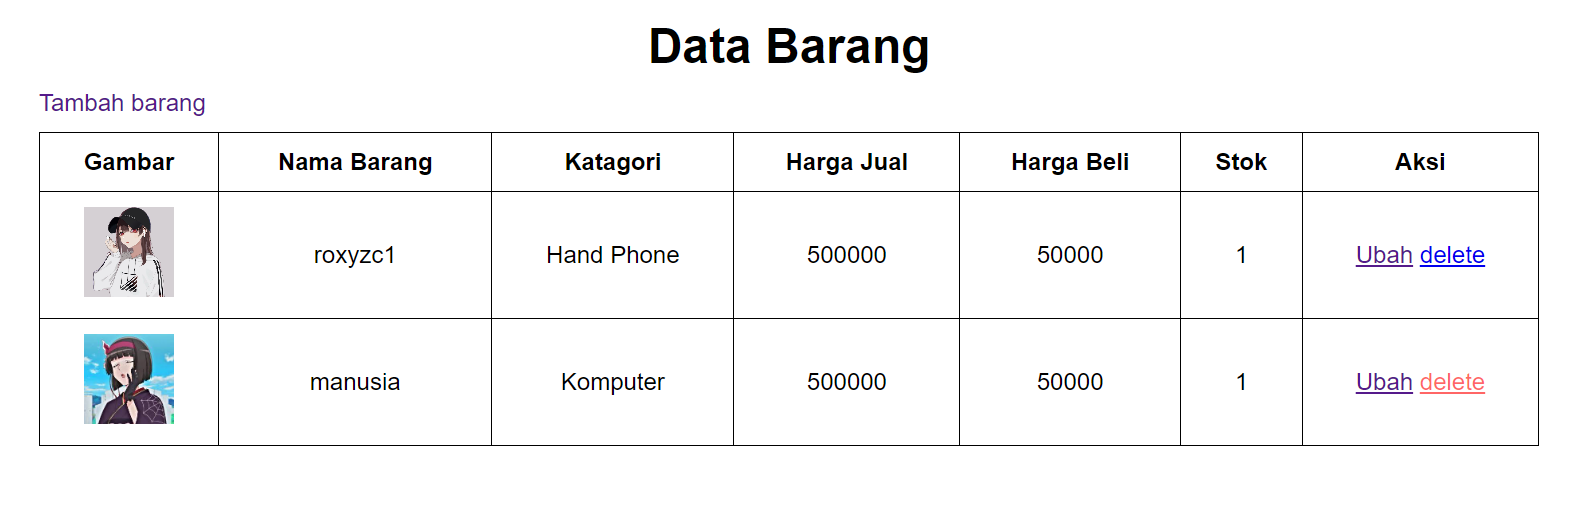
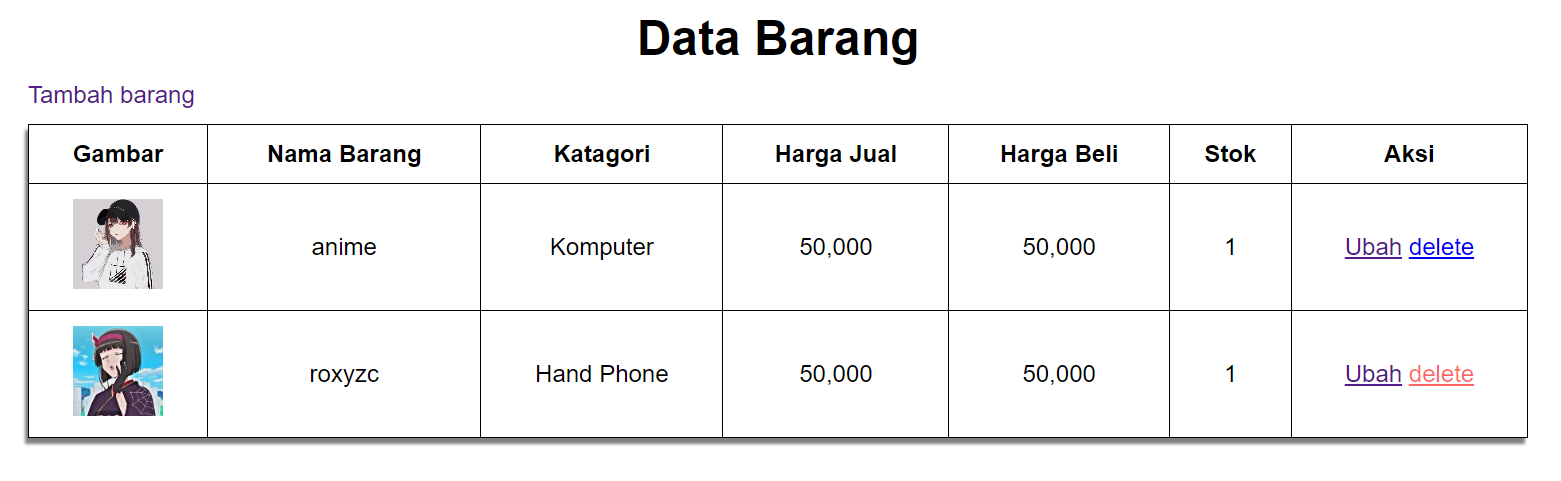
update

diff --git a/styles/style.css b/styles/style.css
@@ -27,10 +27,8 @@
 }
 
 .container .main table{
+    box-shadow: -2px 4px 2px gray;
     border-collapse: collapse;
-}
-
-.container .main table{
     text-align: center;
 }
 

diff --git a/ubah.php b/ubah.php
@@ -74,15 +74,15 @@ function is_select($var, $val)
                 </div>
                 <div class="input">
                     <label>Harga Jual</label>
-                    <input type="text" maxlength="12" name="harga_jual" value="<?php echo $data['harga_jual']; ?>" />
+                    <input type="text" maxlength="10" name="harga_jual" value="<?php echo $data['harga_jual']; ?>" />
                 </div>
                 <div class="input">
                     <label>Harga Beli</label>
-                    <input type="text" maxlength="12" name="harga_beli" value="<?php echo $data['harga_beli']; ?>" />
+                    <input type="text" maxlength="10" name="harga_beli" value="<?php echo $data['harga_beli']; ?>" />
                 </div>
                 <div class="input">
                     <label>Stok</label>
-                    <input type="text" maxlength="12" name="stok" value="<?php echo $data['stok']; ?>" />
+                    <input type="text" maxlength="10" name="stok" value="<?php echo $data['stok']; ?>" />
                 </div>
                 <div class="input">
                     <label>File Gambar</label>

diff --git a/tambah.php b/tambah.php
@@ -51,15 +51,15 @@ if (isset($_POST['submit'])) {
                 </div>
                 <div class="input">
                     <label>Harga Jual</label>
-                    <input type="text" maxlength="12" name="harga_jual" />
+                    <input type="text" maxlength="10" name="harga_jual" />
                 </div>
                 <div class="input">
                     <label>Harga Beli</label>
-                    <input type="text" maxlength="12" name="harga_beli" />
+                    <input type="text" maxlength="10" name="harga_beli" />
                 </div>
                 <div class="input">
                     <label>Stok</label>
-                    <input type="text" maxlength="12" name="stok" />
+                    <input type="text" maxlength="10" name="stok" />
                 </div>
                 <div class="input">
                     <label>File Gambar</label>

diff --git a/index.php b/index.php
@@ -34,8 +34,8 @@ $result = mysqli_query($conn, $sql);
                             <td><img src="<?= $row["gambar"]; ?>" alt="<?= $row['nama']; ?>"></td>
                             <td><?= $row['nama']; ?></td>
                             <td><?= $row['kategori']; ?></td>
-                            <td><?= $row['harga_beli']; ?></td>
-                            <td><?= $row['harga_jual']; ?></td>
+                            <td><?= number_format($row['harga_beli']); ?></td>
+                            <td><?= number_format($row['harga_jual']); ?></td>
                             <td><?= $row['stok']; ?></td>
                             <td><a href="ubah.php?id=<?= $row['id_barang']; ?>">Ubah</a> <a href="hapus.php?id=<?= $row["id_barang"]; ?>">delete</a></td>
                         </tr>

diff --git a/README.md b/README.md
@@ -1,4 +1,5 @@
 # lab3web
+
 **<p>Nama: Ridho Pikriyansyah</p>**
 **<p>Kelas: TI.21.A.3</p>**
 **<p>NIM: 312110169</p>**
@@ -6,6 +7,7 @@
 ## koneksi.php
 
 ### Code
+
 ```
 <?php
 $host = "localhost";
@@ -20,14 +22,17 @@ if ($conn == false) {
 ```
 
 ### Penjelasan
+
 > Pada code diatas digunakan untuk menghubungkan ke database yang bernama "latihan1"
 
 ## index.php
 
 ### Output
+
 ![gambar1](./sample/lihat.png)
 
 ### Code
+
 ```
 <?php
 include("koneksi.php");
@@ -85,14 +90,19 @@ $result = mysqli_query($conn, $sql);
 ```
 
 ### Penjelasan
+
 > Contoh diatas merupakan skrip PHP yang menghasilkan halaman HTML dan menampilkan data dari tabel database yang disebut "data_barang"
 
 ## tambah.php
 
 ### Output
+
 ![gambar](./sample/tambah.png)
 
+![gambar](./sample/tambah1.png)
+
 ### Code
+
 ```
 <?php
 error_reporting(E_ALL);
@@ -178,14 +188,19 @@ if (isset($_POST['submit'])) {
 ```
 
 ### Penjelasan
+
 > Code diatas merupakan form untuk menambahkan data pada table "data_barang"
 
 ## ubah.php
 
 ### Output
+
 ![gambar](./sample/ubah.png)
 
+![gambar](./sample//ubah1.png)
+
 ### Code
+
 ```
 <?php
 // error_reporting(E_ALL);
@@ -295,17 +310,21 @@ function is_select($var, $val)
 ```
 
 ### Penjelasan
+
 > Code diatas merupakan form untuk merubah atau mengupdate suatu data dari table "data_barang" melalui sebuah "id"
 
 ## hapus.php
 
 ### Output _Sebelum dihapus_
+
 ![gambar1](./sample/hapus1.png)
 
 ### Output _Sesudah dihapus_
+
 ![gambar2](./sample/hapus2.png)
 
 ### Code
+
 ```
 <?php
 include_once 'koneksi.php';
@@ -317,4 +336,5 @@ header('location: index.php');
 ```
 
 ### Penjelasan
+
 > Code diatas merupakan contoh untuk menghapus data dari table "data_barang" melalui sebuah "id"
